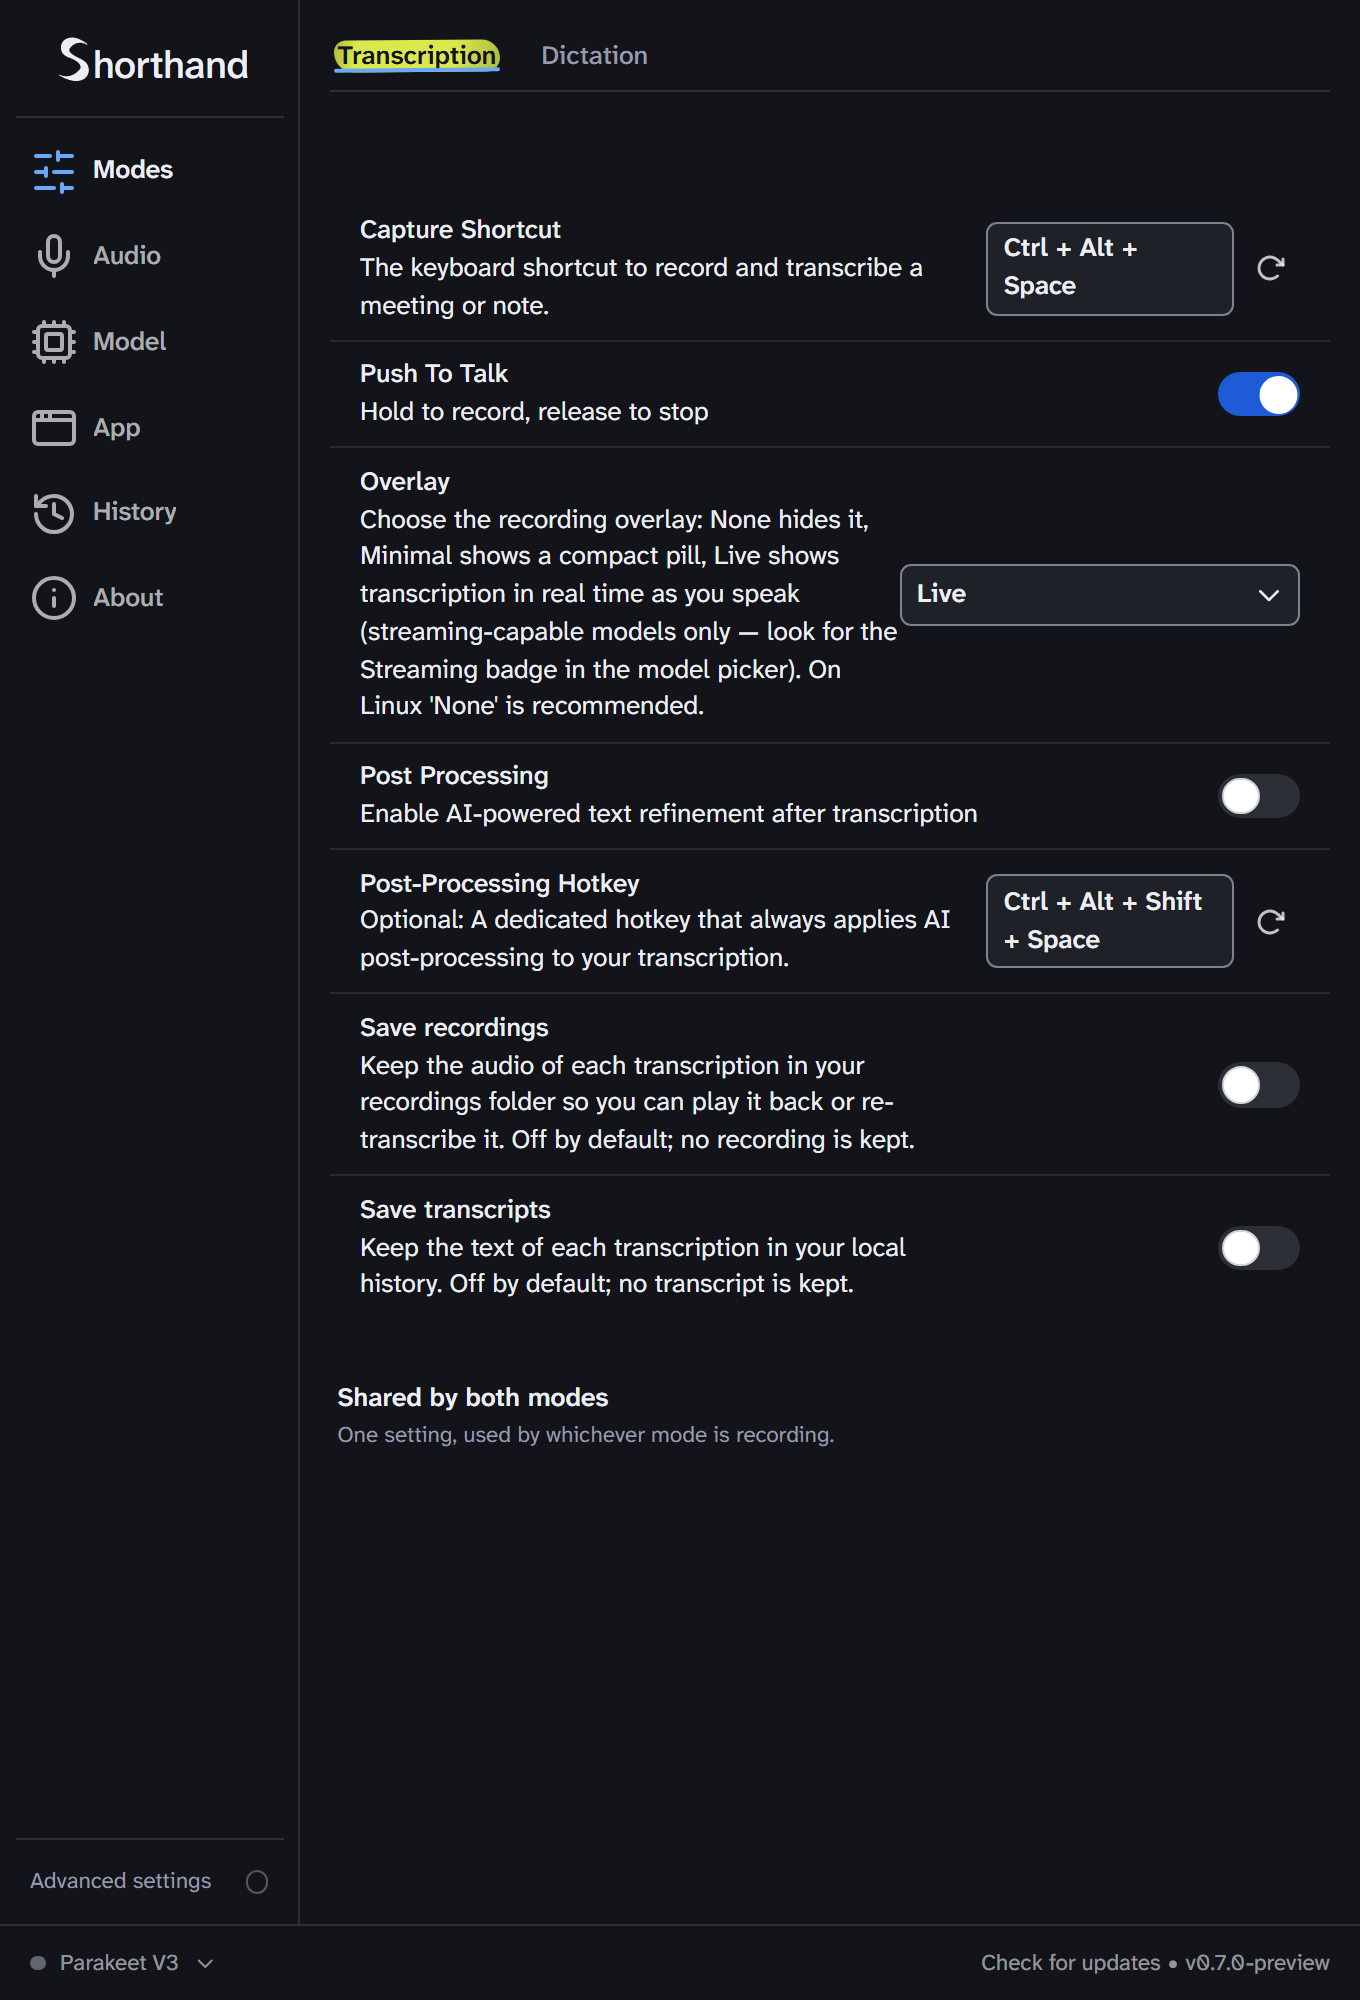
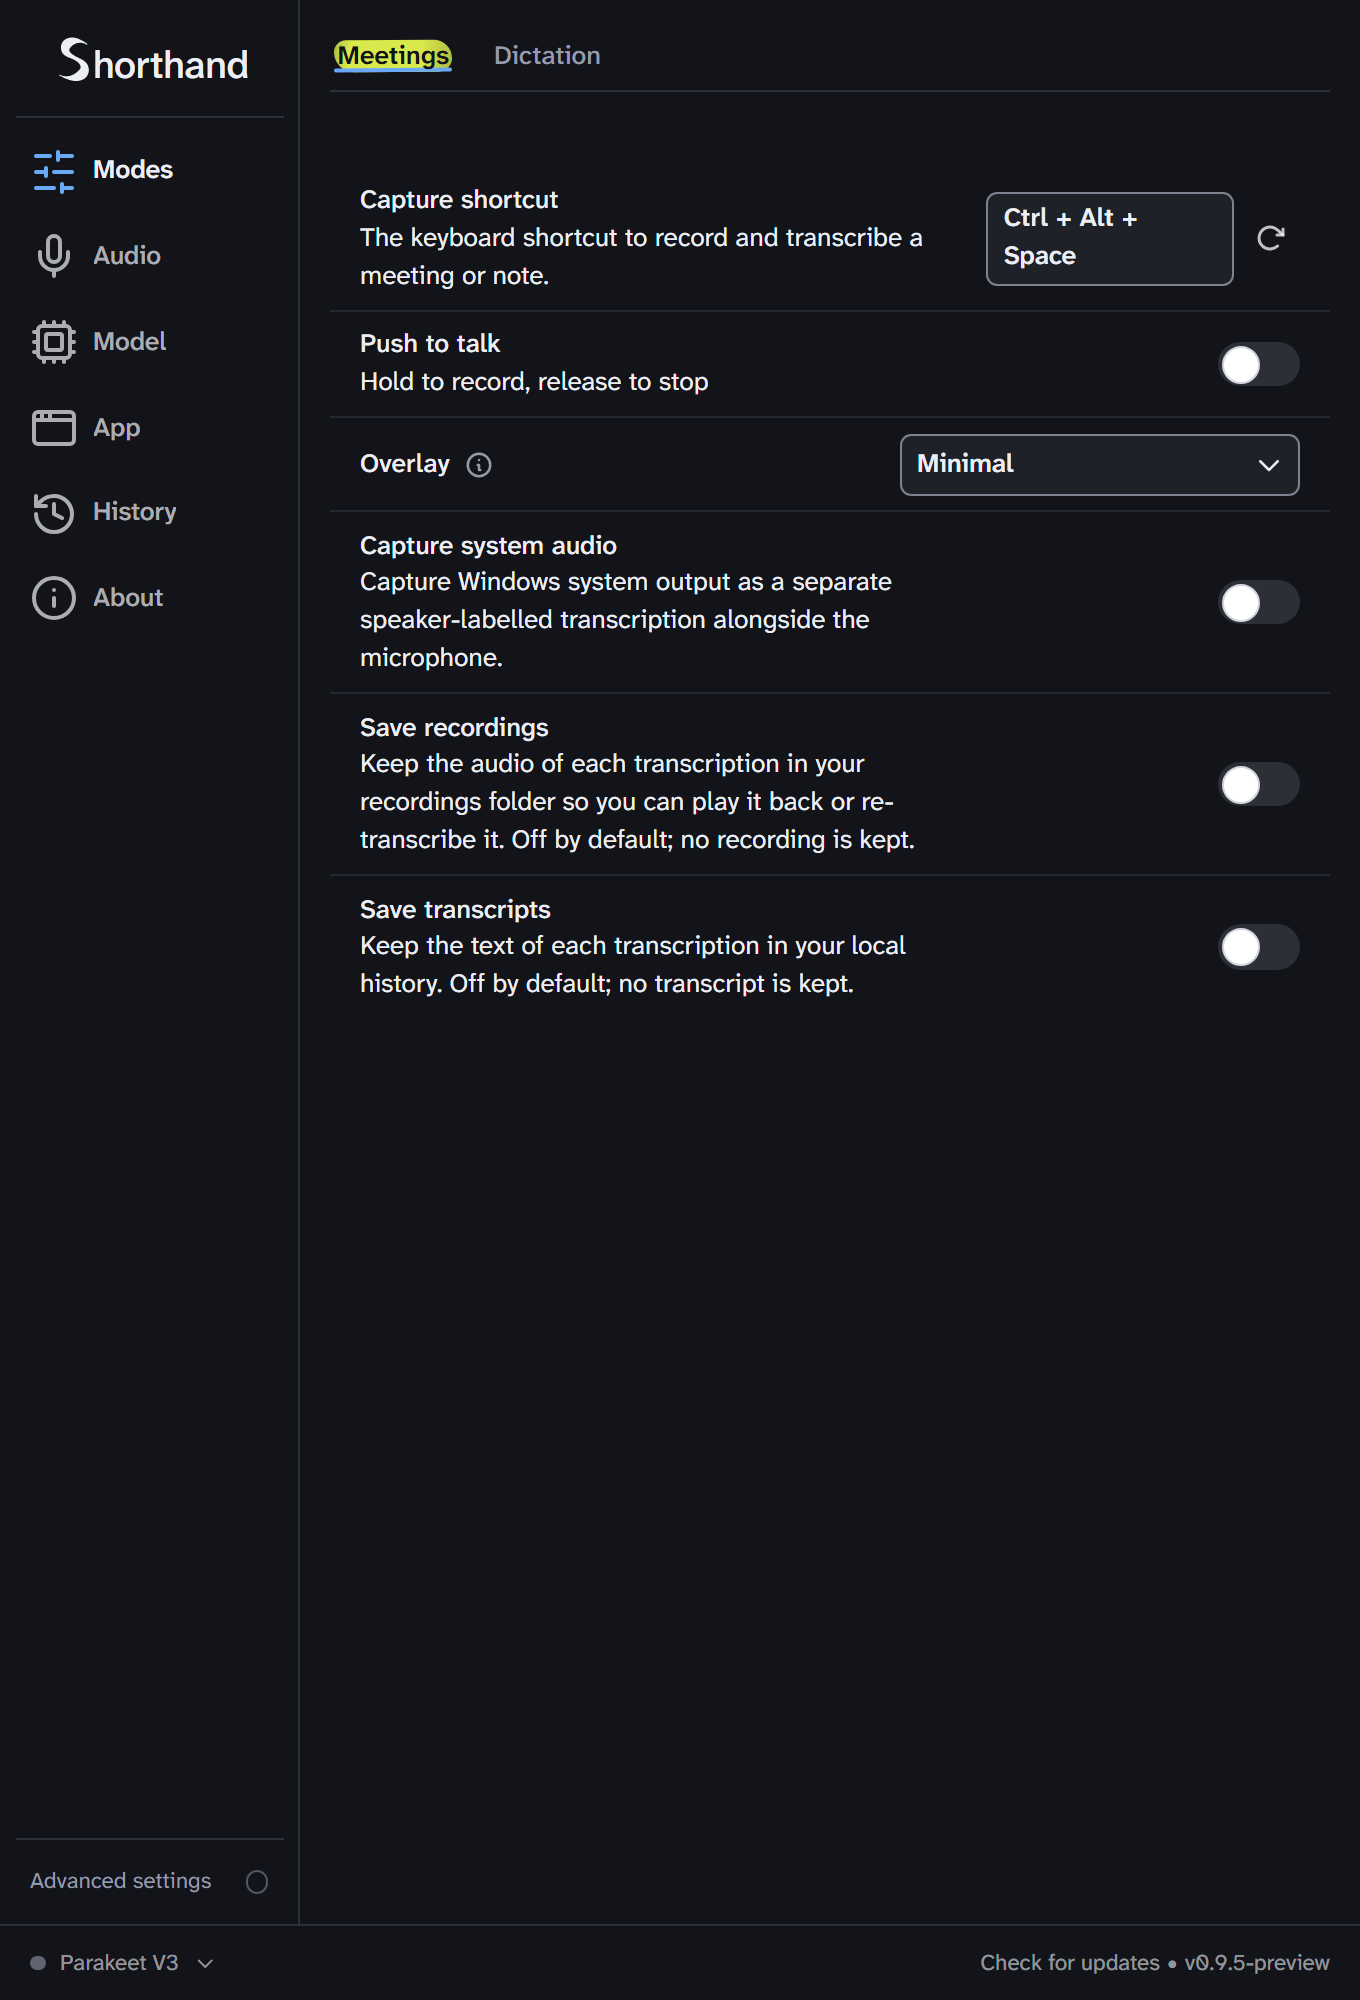
test(brand): re-shoot against the current UI, and photograph the cancel fix
The six shots predated the Meetings rename, the retuned meeting defaults and
the four settings that became per-mode, so they no longer showed what the
branch does. The mock's canned AppSettings drifted too — it still carried the
old push-to-talk, overlay and follow-stream defaults, three of eight
post-processing providers, and a 0.7.0 version string.

Adds a seventh shot for the cancel row specifically. It only appears with
Advanced on AND dictation off, which no existing shot covers: the mock
deliberately enables dictation so the Dictation tab shows live rows instead of
a column of greyed ones. Rather than trade that away, the new shot reaches the
state by clicking Enable dictation off — which is the harness's own standard
of proof, and the only option that photographs the fix rather than describing
it.

That mattered here. I asserted in review that flipping meetings' push-to-talk
default would make the cancel row reachable; it did not, and the screenshot is
what established both the failure and, after the fix, the recovery.

diff --git a/brand-preview/mock-tauri.ts b/brand-preview/mock-tauri.ts
@@ -121,7 +121,7 @@ const SETTINGS: AppSettings = {
       "ctrl+shift+space",
     ),
   },
-  push_to_talk: true,
+  push_to_talk: false,
   audio_feedback: false,
   audio_feedback_volume: 1.0,
   sound_theme: "marimba",
@@ -129,7 +129,7 @@ const SETTINGS: AppSettings = {
   autostart_enabled: false,
   update_checks_enabled: true,
   show_whats_new_on_update: true,
-  whats_new_last_seen_version: "0.7.0",
+  whats_new_last_seen_version: "0.9.5",
   selected_model: "parakeet-tdt-0.6b-v3",
   onboarding_completed: true,
   always_on_microphone: false,
@@ -138,7 +138,7 @@ const SETTINGS: AppSettings = {
   clamshell_microphone: null,
   selected_output_device: null,
   system_audio_enabled: false,
-  follow_stream_enabled: false,
+  follow_stream_enabled: true,
   system_audio_device: null,
   translate_to_english: false,
   selected_language: "auto",
@@ -158,11 +158,23 @@ const SETTINGS: AppSettings = {
   auto_submit_key: "enter",
   post_process_enabled: false,
   post_process_provider_id: "openai",
+  // The Windows arm of `default_post_process_providers()`, in its order. Apple
+  // Intelligence is the one entry deliberately absent: it is pushed only under
+  // `#[cfg(all(target_os = "macos", target_arch = "aarch64"))]`, and OS_TYPE
+  // above is Windows.
   post_process_providers: [
     {
       id: "openai",
       label: "OpenAI",
       base_url: "https://api.openai.com/v1",
+      allow_base_url_edit: false,
+      models_endpoint: "/models",
+      supports_structured_output: true,
+    },
+    {
+      id: "zai",
+      label: "Z.AI",
+      base_url: "https://api.z.ai/api/paas/v4",
       allow_base_url_edit: false,
       models_endpoint: "/models",
       supports_structured_output: true,
@@ -183,9 +195,63 @@ const SETTINGS: AppSettings = {
       models_endpoint: "/models",
       supports_structured_output: false,
     },
+    {
+      id: "groq",
+      label: "Groq",
+      base_url: "https://api.groq.com/openai/v1",
+      allow_base_url_edit: false,
+      models_endpoint: "/models",
+      supports_structured_output: false,
+    },
+    {
+      id: "cerebras",
+      label: "Cerebras",
+      base_url: "https://api.cerebras.ai/v1",
+      allow_base_url_edit: false,
+      models_endpoint: "/models",
+      supports_structured_output: true,
+    },
+    {
+      id: "bedrock_mantle",
+      label: "AWS Bedrock (Mantle)",
+      base_url: "https://bedrock-mantle.us-east-1.api.aws/v1",
+      allow_base_url_edit: false,
+      models_endpoint: "/models",
+      supports_structured_output: true,
+    },
+    // Custom always comes last, and is the only one whose base URL is editable.
+    {
+      id: "custom",
+      label: "Custom",
+      base_url: "http://localhost:11434/v1",
+      allow_base_url_edit: true,
+      models_endpoint: "/models",
+      supports_structured_output: false,
+    },
   ],
-  post_process_api_keys: { openai: "", openrouter: "", anthropic: "" },
-  post_process_models: { openai: "", openrouter: "", anthropic: "" },
+  // Both maps are keyed off the provider list above, the same way
+  // `default_post_process_api_keys()` and `default_post_process_models()` are
+  // built by iterating it. Every value is empty on a fresh install.
+  post_process_api_keys: {
+    openai: "",
+    zai: "",
+    openrouter: "",
+    anthropic: "",
+    groq: "",
+    cerebras: "",
+    bedrock_mantle: "",
+    custom: "",
+  },
+  post_process_models: {
+    openai: "",
+    zai: "",
+    openrouter: "",
+    anthropic: "",
+    groq: "",
+    cerebras: "",
+    bedrock_mantle: "",
+    custom: "",
+  },
   post_process_prompts: [
     {
       id: "default_improve_transcriptions",
@@ -214,7 +280,7 @@ const SETTINGS: AppSettings = {
   transcribe_gpu_device: -1,
   extra_recording_buffer_ms: 0,
   vad_enabled: true,
-  overlay_style: "live",
+  overlay_style: "minimal",
   show_all_settings: false,
   dictation: {
     enabled: true,
@@ -230,6 +296,10 @@ const SETTINGS: AppSettings = {
     save_transcripts: false,
     post_process_enabled: false,
     post_process_selected_prompt_id: null,
+    system_audio_enabled: false,
+    follow_stream_enabled: false,
+    post_process_provider_id: "openai",
+    post_process_model: null,
   },
 };
 
@@ -434,7 +504,7 @@ const HANDLERS: Record<string, (args: any) => unknown> = {
   "plugin:updater|check": () => null,
   "plugin:os|locale": () => "en-US",
   "plugin:os|hostname": () => "preview",
-  "plugin:app|version": () => "0.7.0-preview",
+  "plugin:app|version": () => "0.9.5-preview",
   "plugin:app|name": () => "Shorthand",
   "plugin:macos-permissions|check_accessibility_permission": () => true,
   "plugin:macos-permissions|check_microphone_permission": () => true,
